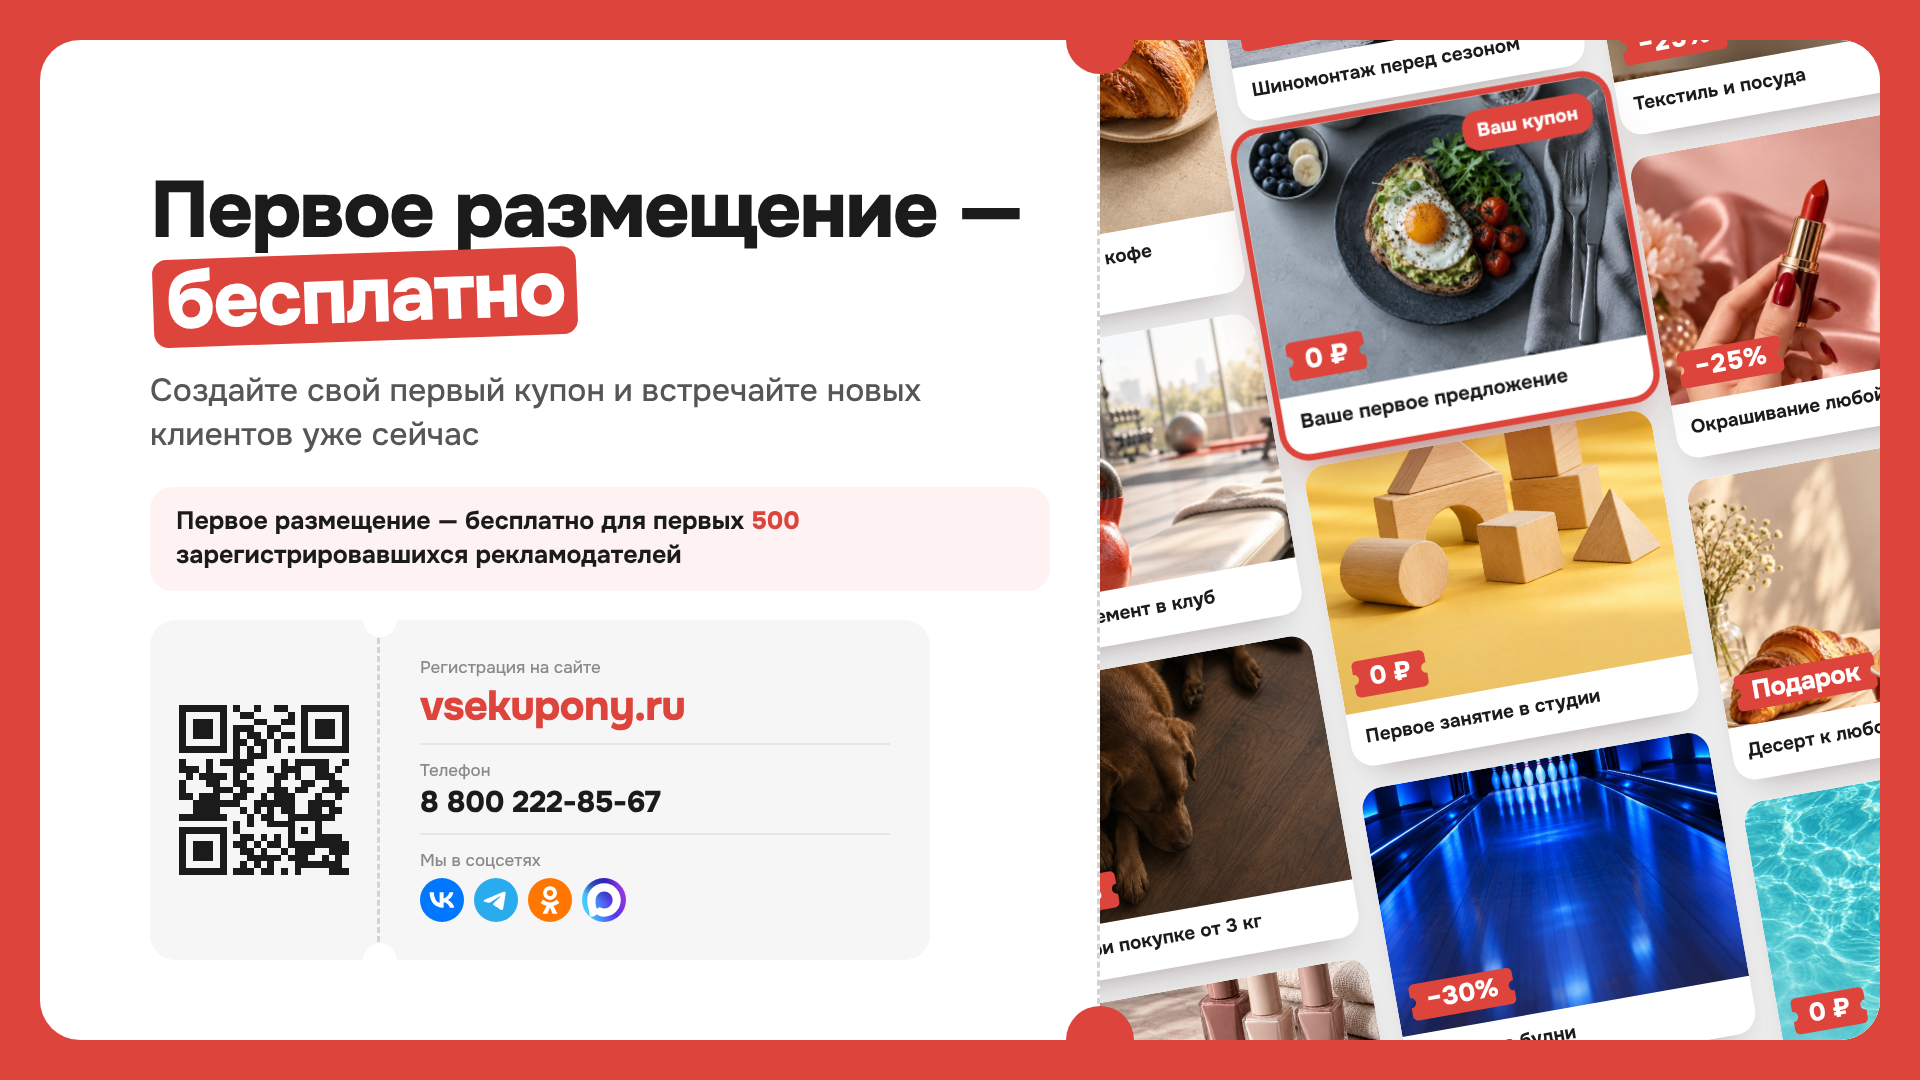
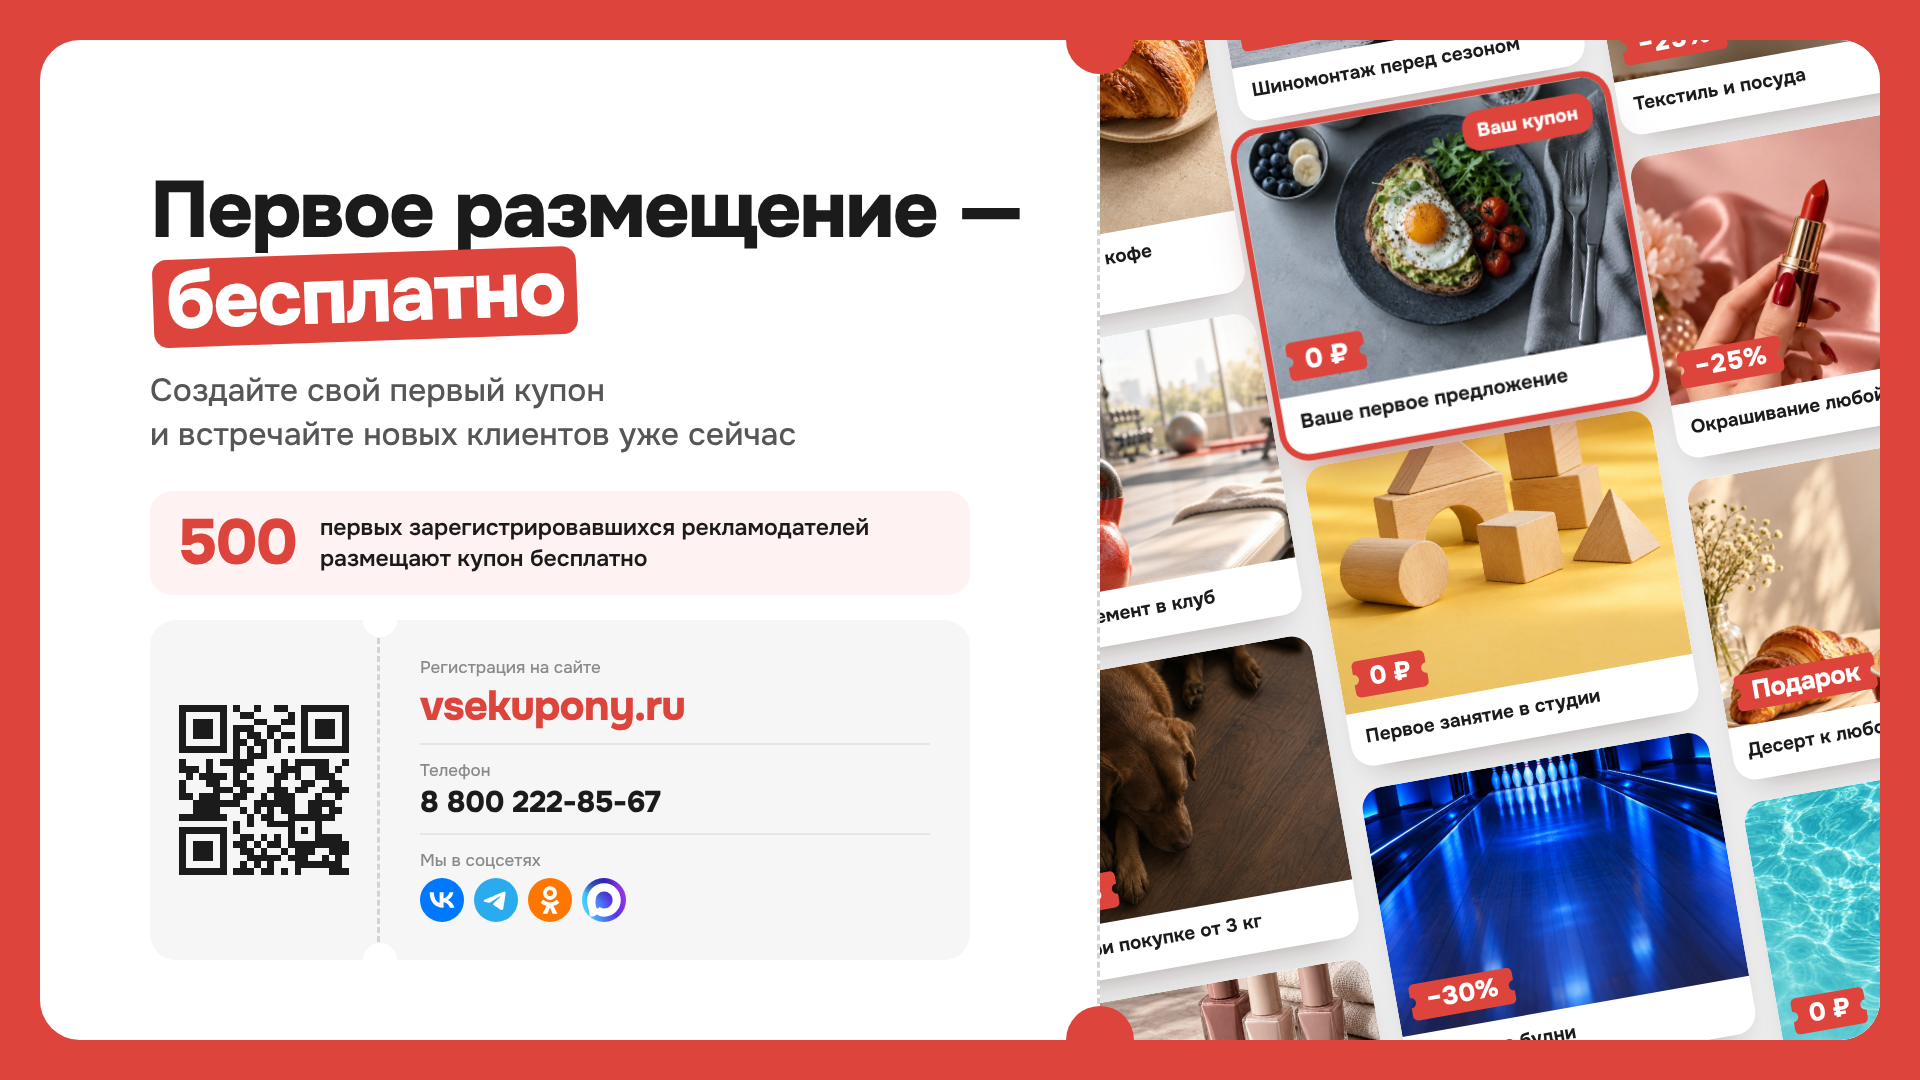
Презентация: последний слайд — плашка «500» и купон с QR одной ширины
Claude-Session: https://claude.ai/code/session_01HQTTQEBkqu3b2tPP56NRpL

Changed region(s): [[0.0938, 0.4583, 0.4375, 0.55], [0.0625, 0.3361, 0.4688, 0.4278]]

diff --git a/social-kit/deck.html b/social-kit/deck.html
@@ -476,8 +476,11 @@ a{color:inherit;text-decoration:none}
 .wc__t{padding:14px 16px 18px;font-size:19px;font-weight:700;line-height:1.25}
 .wc.is-you{transform:scale(1.06);box-shadow:0 0 0 6px var(--brand), 0 30px 50px -20px rgba(120,20,10,.55);z-index:2}
 .wc__you{position:absolute;right:14px;top:14px;padding:8px 14px;border-radius:16px;background:var(--brand);color:#fff;font-size:18px;font-weight:800}
-.free{margin-top:30px;display:block;padding:18px 26px;border-radius:22px;background:var(--brand-50);font-size:25px;font-weight:700;line-height:1.35;color:var(--ink)}
-.free b{color:var(--brand)}
+/* Плашка и купон с QR — одной ширины (820), по одной левой линии */
+#s9 .qrc{width:820px}
+.free{margin-top:34px;width:820px;display:flex;align-items:center;gap:24px;padding:20px 28px;border-radius:22px;background:var(--brand-50)}
+.free b{flex:none;font-size:64px;font-weight:800;letter-spacing:-.03em;line-height:1;color:var(--brand)}
+.free span{font-size:23px;font-weight:600;line-height:1.35;color:var(--ink)}
 .qrc--big{height:340px}
 .cont__l{display:flex;flex-direction:column;gap:12px}
 .cont__r{display:flex;align-items:center;gap:14px;font-size:26px;font-weight:700;color:var(--ink)}
@@ -773,8 +776,8 @@ a{color:inherit;text-decoration:none}
     <div class="cpn__l cpn__l--v">
       <div class="in">
         <h2 class="h1">Первое размещение&nbsp;— <span class="city">бесплатно</span></h2>
-        <p class="sub">Создайте свой первый купон и&nbsp;встречайте новых клиентов уже сейчас</p>
-        <div class="free">Первое размещение&nbsp;— бесплатно для первых <b>500</b> зарегистрировавшихся рекламодателей</div>
+        <p class="sub">Создайте свой первый купон<br>и&nbsp;встречайте новых клиентов уже сейчас</p>
+        <div class="free"><b>500</b><span>первых зарегистрировавшихся рекламодателей размещают купон бесплатно</span></div>
       </div>
       <div class="qrc qrc--big">
         <div class="qrc__l"><a href="https://vsekupony.ru"><img src="qr-site.svg" alt="QR-код: vsekupony.ru"></a></div>
